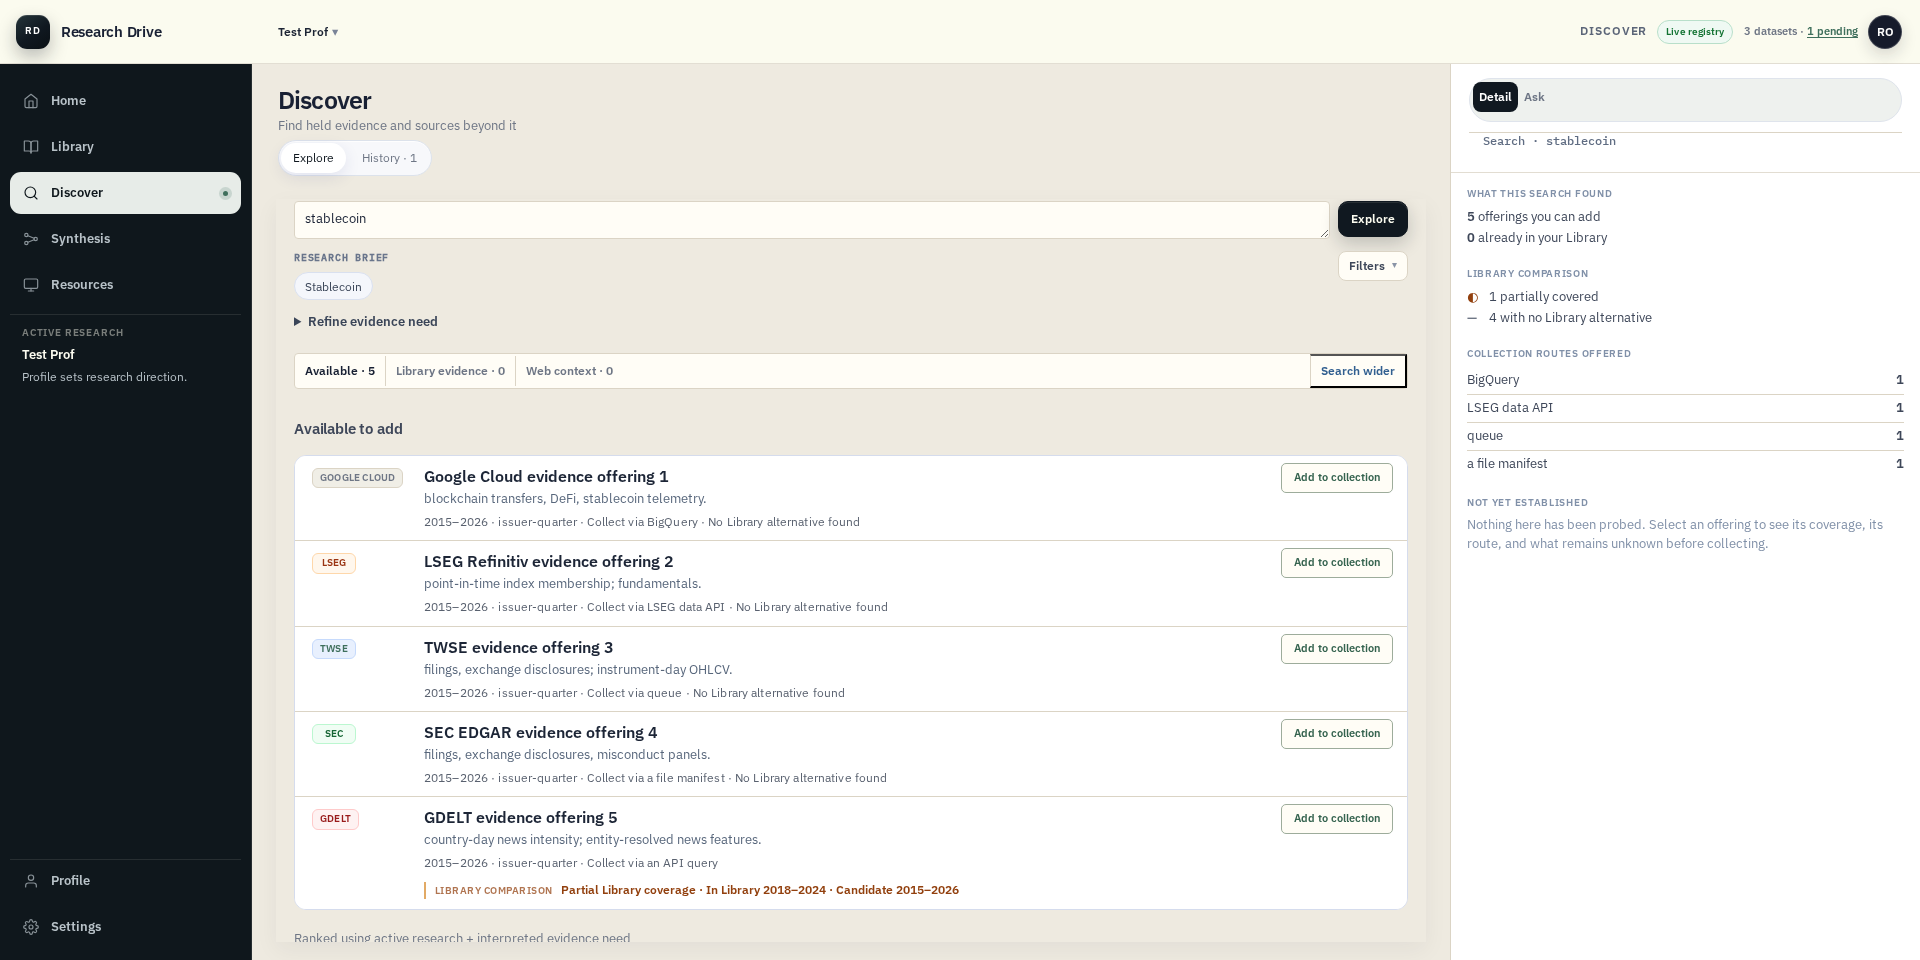
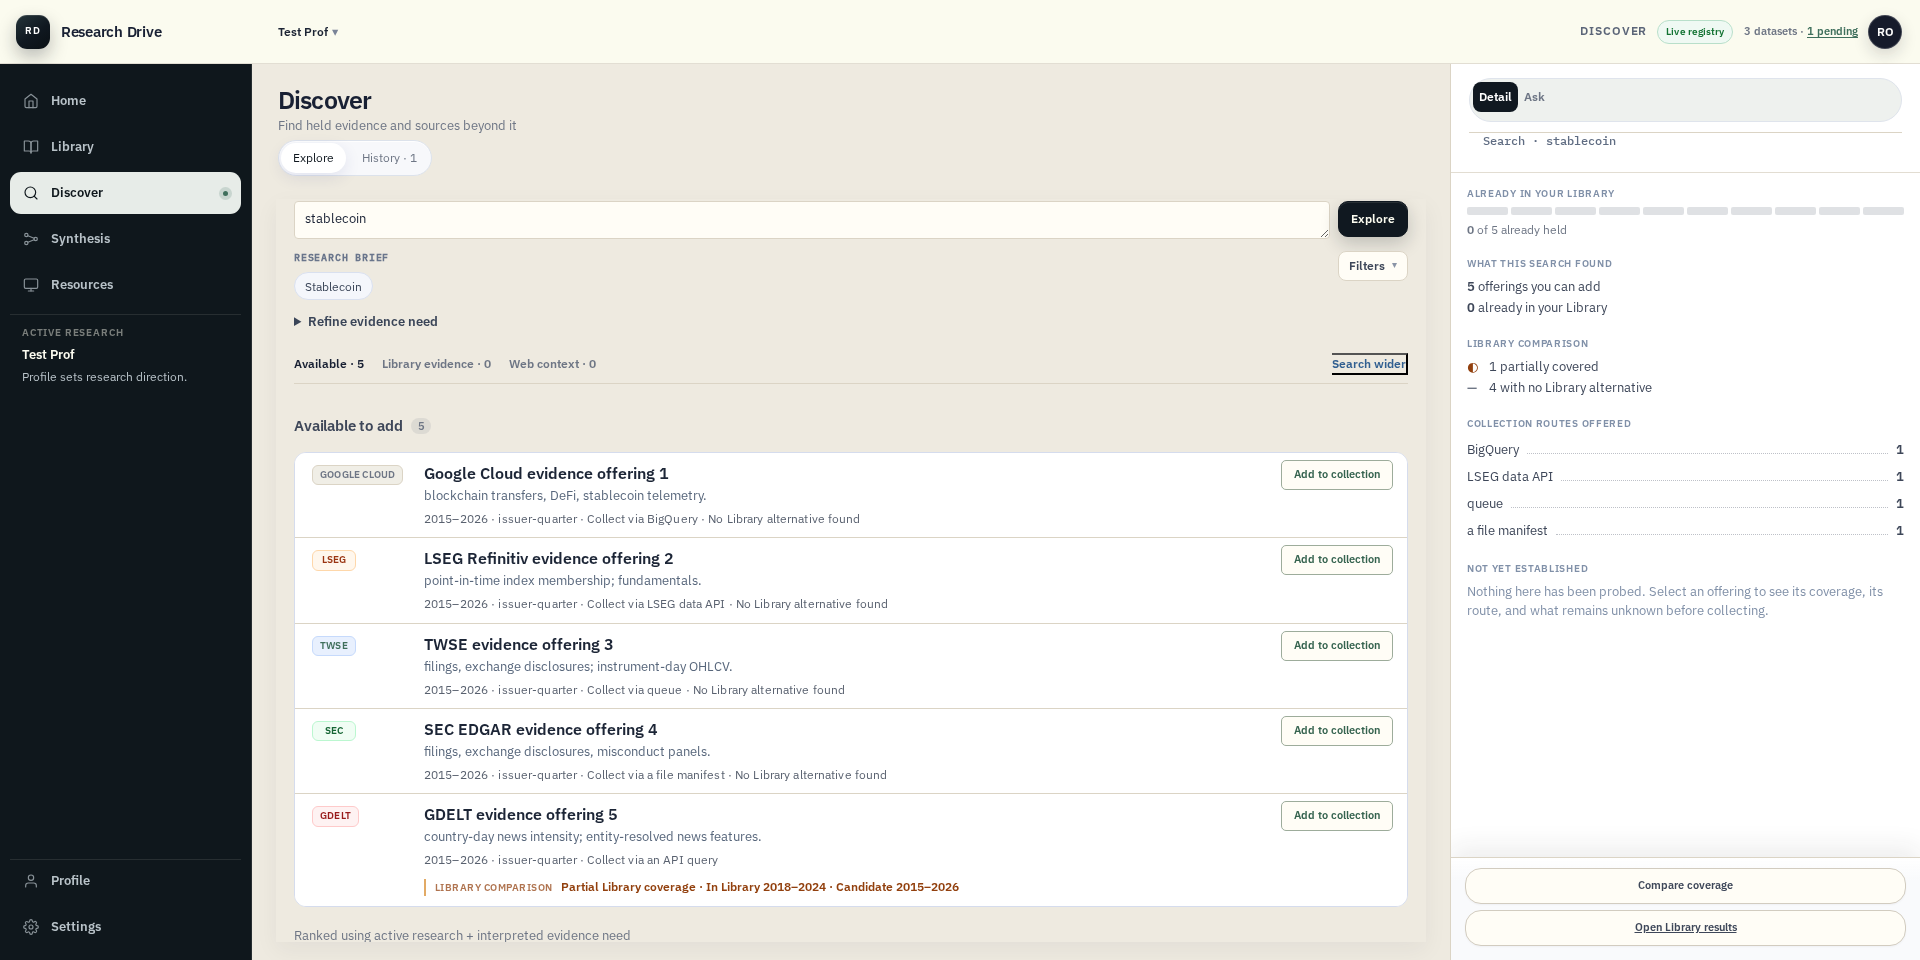
fix(discover): bound the reading measure, unbox the chrome, fill the rail
Pass 1 of the agreed plan -- presentation only, no backend.

MEASURE. The description ran 125 characters per line at 1920. Comfortable is
45-75; past ~90 the eye loses its place on the return sweep, which is why the
list read well at 1440 (~73 chars) and badly at 1920 while every row was
individually correct. Capped to 64ch.

  The cap is repeated in release-visual.css on purpose. That sheet loads
  after v2.css and already won the font-size fight that produced 13.12px, so
  a cap set only in v2.css would look right in source and do nothing on
  screen.

  64ch, not 78: `ch` is the advance of "0", about 1.22x this font's average
  glyph. 78ch measured 95 actual characters -- the first attempt failed the
  new gate, which is what the gate is for.

CHROME. The scope strip was a bordered, segmented box spanning the full
column -- 1099px at 1920 -- with counts clustered left and actions pushed
right, leaving ~700px of empty box between two unrelated groups, and making
every count look pressable. Now plain text with a single rule beneath.

HEADINGS. Both sections state their size. "Other external matches" named the
group by what it was not; it is now "Beyond your Library · N" with the reason
-- no equivalent found in your Library.

RAIL. Adds a possession bar and moves Compare coverage / Open Library results
into the sticky footer. The bar is deliberately NOT labelled "Coverage":
§15 reserves that word for provider/observed evidence coverage, and this is
[…]

diff --git a/drive/src/v2/v2.css b/drive/src/v2/v2.css
@@ -5904,26 +5904,37 @@ aside.rd-v2-rail .rd-v2-eval-actions > .rd-v2-btn {
      13px description, not from a fractional size difference. */
   font-size: 12px;
   letter-spacing: .01em;
+  /* Slightly wider than the description: this line is scanned in fragments
+     separated by "·", not read as prose, but it must not run past the
+     description's reading edge by much. */
+  max-width: 76ch;
 }
 
 .rd-v2-discover-library-evidence {
   position: relative;
 }
+/* Counts are not controls.
+   As a bordered, segmented strip this spanned the full column -- 1099px at
+   1920 -- with the counts clustered left and the actions pushed right, so
+   roughly 700px of empty box sat between two groups that had nothing to do
+   with each other. The box also made every count look pressable.
+   Now: plain text scope line, one rule underneath, no segment walls. */
 .rd-v2-discover-explore-chrome {
   display: flex;
   flex-wrap: wrap;
   align-items: center;
-  gap: 0;
-  margin: 10px 0 14px;
-  border: 1px solid var(--rd-border);
-  border-radius: 4px;
-  background: var(--rd-surface);
+  gap: 18px;
+  margin: 10px 0 16px;
+  padding: 0 0 8px;
+  border: 0;
+  border-bottom: 1px solid var(--rd-border);
+  background: transparent;
 }
 .rd-v2-discover-explore-chrome > span,
 .rd-v2-discover-explore-chrome > button,
 .rd-v2-discover-explore-chrome > .rd-v2-discover-library-evidence > summary {
-  padding: 6px 10px;
-  border-left: 1px solid var(--rd-border);
+  padding: 0;
+  border-left: 0;
   color: var(--rd-muted);
   font-size: 12px;
   font-weight: 600;
@@ -7450,6 +7461,14 @@ aside.rd-v2-rail .rd-v2-eval-actions > .rd-v2-btn {
      drift, not a scale, and they render inconsistently across rows. */
   font-size: 13px;
   line-height: 1.45;
+  /* Measured 125 characters per line at 1920. A comfortable measure is 45-75;
+     past about 90 the eye loses its place on the return sweep. That is why
+     the list read well at 1440 (~73 chars) and badly at 1920 while every row
+     was individually correct. The row still spans the column -- only the
+     reading line is bounded.
+     64ch, not 78: `ch` is the advance of "0", about 1.22x this font's
+     average glyph, so 78ch measured 95 actual characters. */
+  max-width: 64ch;
   -webkit-box-orient: vertical;
   -webkit-line-clamp: 2;
 }
@@ -9862,13 +9881,25 @@ button:disabled { opacity: 0.55; cursor: not-allowed; }
 .rd-v2-summary-suff i.part { color: #92400e; }
 .rd-v2-summary-suff i.none { color: var(--rd-muted); }
 
+/* Leader dots: the count sat ~430px from its label with nothing joining
+   them, so the eye had to travel an empty gap to pair the two. */
 .rd-v2-summary-routes li {
   display: flex;
-  justify-content: space-between;
-  gap: 12px;
+  align-items: baseline;
+  gap: 8px;
   padding: 3px 0;
-  border-bottom: 1px solid var(--rd-border);
 }
+
+.rd-v2-summary-routes li::after {
+  content: "";
+  order: 1;
+  flex: 1 1 auto;
+  height: 0;
+  margin-bottom: 3px;
+  border-bottom: 1px dotted color-mix(in srgb, var(--rd-muted) 45%, transparent);
+}
+
+.rd-v2-summary-routes li b { order: 2; }
 
 .rd-v2-summary-routes li:last-child { border-bottom: 0; }
 .rd-v2-summary-routes b { font-weight: 700; }
@@ -9876,3 +9907,41 @@ button:disabled { opacity: 0.55; cursor: not-allowed; }
 /* The summary blocks sat flush against the rail's left edge while the
    identity line above them was inset -- a ragged margin down the rail. */
 .rd-v2-search-summary { padding: 14px 16px 18px; }
+
+/* Section heads state their own size, so the reader knows how much is in the
+   group before scrolling it. */
+.rd-v2-section-count {
+  margin-left: 8px;
+  padding: 1px 7px;
+  border-radius: 9px;
+  background: color-mix(in srgb, var(--rd-muted) 14%, transparent);
+  color: var(--rd-muted);
+  font-size: 11px;
+  font-weight: 700;
+  vertical-align: middle;
+}
+
+/* Coverage proportion. Ten cells, filled by count -- never a percentage or a
+   score, so it cannot claim more than the results show. */
+.rd-v2-coverage-bar {
+  display: flex;
+  gap: 3px;
+  margin: 2px 0 6px;
+}
+
+.rd-v2-coverage-bar span {
+  flex: 1 1 0;
+  height: 8px;
+  border-radius: 2px;
+  background: color-mix(in srgb, var(--rd-muted) 22%, transparent);
+}
+
+.rd-v2-coverage-bar span.on { background: #3f6f5c; }
+
+.rd-v2-coverage-caption {
+  margin: 0;
+  color: var(--rd-muted);
+  font-size: 12px;
+}
+
+.rd-v2-coverage-caption b { color: var(--rd-ink, inherit); font-weight: 700; }

diff --git a/drive/src/v2/DiscoverEvaluationSurface.jsx b/drive/src/v2/DiscoverEvaluationSurface.jsx
@@ -18,6 +18,7 @@ import {
   RailField,
   RailFieldGrid,
   RailFrame,
+  RailStickyFooter,
 } from "@/v2/RailFrame";
 import { EmptyRailState } from "@/v2/EmptyRailState";
 import { buildObjectEstateCrumb } from "@/v2/deskIntegration";
@@ -117,6 +118,34 @@ export function DiscoverEvaluationSurface({
     return (
       <RailFrame>
         <div className="rd-v2-rail-scroll rd-v2-search-summary" data-testid="discover-search-summary">
+          {/* One glance answer at the top of the rail: how much of what this
+              search surfaced the lab already owns. A count, not a score.
+
+              Deliberately NOT labelled "Coverage" -- UI_PRODUCT_AUTHORITY §15
+              reserves that word for provider/observed evidence coverage
+              (period, geography, grain). This bar is possession, and reusing
+              the term would quietly claim something it has not established. */}
+          <section className="rd-v2-eval-block rd-v2-summary-coverage">
+            <p className="rd-v2-eval-section-label">Already in your Library</p>
+            <div
+              className="rd-v2-coverage-bar"
+              role="img"
+              aria-label={`${s.held} of ${s.held + s.offerings} results already in your Library`}
+            >
+              {Array.from({ length: 10 }, (_, i) => (
+                <span
+                  key={i}
+                  className={
+                    i < Math.round((s.held / Math.max(1, s.held + s.offerings)) * 10) ? "on" : ""
+                  }
+                />
+              ))}
+            </div>
+            <p className="rd-v2-coverage-caption">
+              <b>{s.held}</b> of {s.held + s.offerings} already held
+            </p>
+          </section>
+
           <section className="rd-v2-eval-block">
             <p className="rd-v2-eval-section-label">What this search found</p>
             <ul className="rd-v2-summary-counts">
@@ -174,6 +203,24 @@ export function DiscoverEvaluationSurface({
             </p>
           </section>
         </div>
+        {/* The rail's actions belong in the sticky footer, like every other
+            rail state, rather than scrolling away inside the body. */}
+        <RailStickyFooter>
+          <button
+            type="button"
+            className="rd-v2-btn sm"
+            onClick={() => onAskAbout?.({
+              kind: "results",
+              question: s.query,
+              prompt: `Compare coverage of the evidence found for: ${s.query}. Say what is covered, what remains unknown, and whether a wider source is still needed.`,
+            })}
+          >
+            Compare coverage
+          </button>
+          <a className="rd-v2-btn sm ghost" href={`?tab=library&q=${encodeURIComponent(s.query)}`}>
+            Open Library results
+          </a>
+        </RailStickyFooter>
       </RailFrame>
     );
   }

diff --git a/drive/src/v2/BrowsePage.jsx b/drive/src/v2/BrowsePage.jsx
@@ -1631,7 +1631,10 @@ export function BrowsePage({
                     the scope summary again below stated the same totals three
                     times before the first row. */}
                 <div className="rd-v2-home-section-head">
-                  <h3>Available to add</h3>
+                  <h3>
+                    Available to add
+                    <span className="rd-v2-section-count">{resultGroups.available.length}</span>
+                  </h3>
                 </div>
                 <DiscoverCandidateList
                   rows={groupCatalogueVariants(resultGroups.available)}
@@ -1778,11 +1781,21 @@ export function BrowsePage({
                 aria-label="Other external matches"
                 data-testid={resultGroups.available.length ? "discover-other-matches" : "discover-best-fit"}
               >
+                {/* "Other external matches" named the group by what it was not
+                    and gave no reason for the split. These rows are separated
+                    because the comparator found nothing equivalent in the
+                    Library -- say that, in the possession vocabulary the
+                    adaptive freeze §16 settled on. */}
                 <div className="rd-v2-home-section-head">
-                  <h3>{externalCatalogueActive ? "External catalogue matches" : "Other external matches"}</h3>
-                  {externalCatalogueActive ? (
-                    <span className="muted">{plural(resultGroups.external.length, "external catalogue record")}</span>
-                  ) : null}
+                  <h3>
+                    {externalCatalogueActive ? "External catalogue matches" : "Beyond your Library"}
+                    <span className="rd-v2-section-count">{resultGroups.external.length}</span>
+                  </h3>
+                  <span className="muted">
+                    {externalCatalogueActive
+                      ? plural(resultGroups.external.length, "external catalogue record")
+                      : "no equivalent found in your Library"}
+                  </span>
                 </div>
                 <DiscoverCandidateList
                   rows={groupCatalogueVariants(resultGroups.external)}

diff --git a/e2e/program-visual-states.spec.js b/e2e/program-visual-states.spec.js
@@ -177,12 +177,31 @@ test.describe("Discover — required visual states", () => {
             };
           };
           const add = document.querySelector(".rd-v2-discover-row-add");
+
+          // Reading measure, in characters, at this width.
+          const desc = document.querySelector(".rd-v2-discover-evidence");
+          const dcs = getComputedStyle(desc);
+          const probe = document.createElement("span");
+          probe.style.cssText = `position:absolute;visibility:hidden;white-space:nowrap;font:${dcs.font}`;
+          probe.textContent = "abcdefghijklmnopqrstuvwxyz";
+          document.body.appendChild(probe);
+          const charWidth = probe.getBoundingClientRect().width / 26;
+          probe.remove();
+
           return {
             facts: read(".rd-v2-discover-offering-facts"),
             description: read(".rd-v2-discover-evidence"),
             addHeight: add.getBoundingClientRect().height,
+            charsPerLine: Math.round(desc.getBoundingClientRect().width / charWidth),
           };
         });
+
+        // 45-75 characters is the comfortable measure; past ~90 the eye loses
+        // its place on the return sweep. Measured 125 at 1920 before the cap.
+        expect(
+          metrics.charsPerLine,
+          `description runs ${metrics.charsPerLine} characters per line`,
+        ).toBeLessThanOrEqual(90);
 
         expect(metrics.facts.size, "facts line is too small to read").toBeGreaterThanOrEqual(11);
         expect(metrics.facts.contrast, "facts line contrast below AA").toBeGreaterThanOrEqual(4.5);

diff --git a/drive/src/v2/release-visual.css b/drive/src/v2/release-visual.css
@@ -2008,6 +2008,11 @@
 .rd-v2-discover-evidence {
   color: #58677c;
   font-size: 13px;
+  /* The reading-measure cap is repeated here deliberately. This sheet loads
+     after v2.css and already won the font-size fight that produced 13.12px,
+     so a cap set only there would appear correct in source and do nothing on
+     screen. Both sheets state the same value in the same unit. */
+  max-width: 64ch;
 }
 
 .rd-v2-discover-route-gap {
